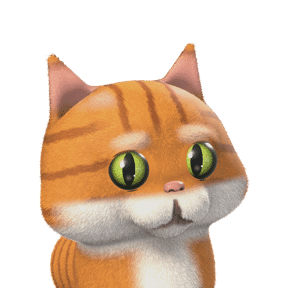
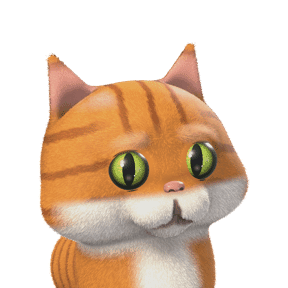
Tiere artgerechter, vier neue Hintergruende
- Brauen nur noch angedeutet (Farbe x0,4, Wulst x0,55), Lichtpunkte in den Augen x0,7
- Fuchs mit schwarzen Ohrspitzen, Hase mit hellem Augenring wie beim Wildkaninchen
- Lavendel, Wolken (hell), Sternschnuppe, Art deco (dunkel), Lucenta+, 8 Sprachen
pruef-alles 9/9.

diff --git a/src/styles/09-archetypen.css b/src/styles/09-archetypen.css
@@ -448,6 +448,72 @@
       linear-gradient(126deg, #FFD978 0%, #F7B548 55%, #EE9A3A 100%);
   }
 
+  .hg-lavendel{
+    --hg-ink:#2E2640; --hg-muted:#665C80;
+    background:
+      radial-gradient(3px 4px at 70% 58%, rgba(150,118,205,.85), transparent),
+      radial-gradient(3px 4px at 70% 65%, rgba(144,114,201,.85), transparent),
+      radial-gradient(3px 4px at 70% 72%, rgba(138,110,197,.85), transparent),
+      radial-gradient(3px 4px at 70% 79%, rgba(132,106,193,.85), transparent),
+      radial-gradient(3px 4px at 76% 48%, rgba(150,118,205,.85), transparent),
+      radial-gradient(3px 4px at 76% 55%, rgba(144,114,201,.85), transparent),
+      radial-gradient(3px 4px at 76% 62%, rgba(138,110,197,.85), transparent),
+      radial-gradient(3px 4px at 76% 69%, rgba(132,106,193,.85), transparent),
+      radial-gradient(3px 4px at 82% 62%, rgba(150,118,205,.85), transparent),
+      radial-gradient(3px 4px at 82% 69%, rgba(144,114,201,.85), transparent),
+      radial-gradient(3px 4px at 82% 76%, rgba(138,110,197,.85), transparent),
+      radial-gradient(3px 4px at 82% 83%, rgba(132,106,193,.85), transparent),
+      radial-gradient(3px 4px at 88% 50%, rgba(150,118,205,.85), transparent),
+      radial-gradient(3px 4px at 88% 57%, rgba(144,114,201,.85), transparent),
+      radial-gradient(3px 4px at 88% 64%, rgba(138,110,197,.85), transparent),
+      radial-gradient(3px 4px at 88% 71%, rgba(132,106,193,.85), transparent),
+      radial-gradient(3px 4px at 94% 60%, rgba(150,118,205,.85), transparent),
+      radial-gradient(3px 4px at 94% 67%, rgba(144,114,201,.85), transparent),
+      radial-gradient(3px 4px at 94% 74%, rgba(138,110,197,.85), transparent),
+      radial-gradient(3px 4px at 94% 81%, rgba(132,106,193,.85), transparent),
+      linear-gradient(90deg, transparent calc(70% - 0.5px), rgba(110,140,100,.45) calc(70% - 0.5px) calc(70% + 0.5px), transparent calc(70% + 0.5px)) 0 100% / 100% 22% no-repeat,
+      linear-gradient(90deg, transparent calc(76% - 0.5px), rgba(110,140,100,.45) calc(76% - 0.5px) calc(76% + 0.5px), transparent calc(76% + 0.5px)) 0 100% / 100% 32% no-repeat,
+      linear-gradient(90deg, transparent calc(82% - 0.5px), rgba(110,140,100,.45) calc(82% - 0.5px) calc(82% + 0.5px), transparent calc(82% + 0.5px)) 0 100% / 100% 18% no-repeat,
+      linear-gradient(90deg, transparent calc(88% - 0.5px), rgba(110,140,100,.45) calc(88% - 0.5px) calc(88% + 0.5px), transparent calc(88% + 0.5px)) 0 100% / 100% 30% no-repeat,
+      linear-gradient(90deg, transparent calc(94% - 0.5px), rgba(110,140,100,.45) calc(94% - 0.5px) calc(94% + 0.5px), transparent calc(94% + 0.5px)) 0 100% / 100% 20% no-repeat,
+      radial-gradient(80% 100% at 10% 0%, rgba(255,255,255,.6), transparent 60%),
+      linear-gradient(126deg, #F3EEF9 0%, #E6DCF3 55%, #DCD0EE 100%);
+  }
+  .hg-wolken{
+    --hg-ink:#1F3550; --hg-muted:#46607E;
+    background:
+      radial-gradient(circle at 66% 72%, #FFFFFF 0 15px, transparent 16px),
+      radial-gradient(circle at 74% 62%, #FFFFFF 0 20px, transparent 21px),
+      radial-gradient(circle at 83% 68%, #FFFFFF 0 17px, transparent 18px),
+      radial-gradient(circle at 91% 74%, #FFFFFF 0 12px, transparent 13px),
+      radial-gradient(60% 18% at 78% 82%, #FFFFFF 0 60%, transparent 62%),
+      radial-gradient(circle at 36% 22%, rgba(255,255,255,.9) 0 8px, transparent 9px),
+      radial-gradient(circle at 41% 17%, rgba(255,255,255,.9) 0 10px, transparent 11px),
+      radial-gradient(circle at 46% 22%, rgba(255,255,255,.9) 0 7px, transparent 8px),
+      linear-gradient(170deg, #9CCBEE 0%, #C3E0F6 60%, #E2F0FA 100%);
+  }
+  .hg-sternschnuppe{
+    --hg-ink:#EFF2FB; --hg-muted:#AFB9D6;
+    background:
+      radial-gradient(3px 3px at 69% 64%, #FFFFFF, transparent),
+      radial-gradient(14px 14px at 69% 64%, rgba(200,220,255,.4), transparent),
+      linear-gradient(152deg, transparent 0 66.6%, rgba(220,232,255,.0) 66.6%, rgba(220,232,255,.7) 69.6%, transparent 70% 100%) 100% 0 / 60% 70% no-repeat,
+      radial-gradient(1.2px 1.2px at 20% 30%, #FFFFFF, transparent),
+      radial-gradient(1px 1px at 44% 72%, #E6ECFF, transparent),
+      radial-gradient(1.2px 1.2px at 60% 56%, #FFFFFF, transparent),
+      radial-gradient(1px 1px at 12% 76%, #FFFFFF, transparent),
+      radial-gradient(1px 1px at 92% 82%, #E6ECFF, transparent),
+      linear-gradient(160deg, #151E3C 0%, #0C1228 70%, #080C1C 100%);
+  }
+  .hg-artdeco{
+    --hg-ink:#F6EFDD; --hg-muted:#C9B68A;
+    background:
+      radial-gradient(circle at 78% 120%, #D9B46A 0 22px, transparent 23px),
+      radial-gradient(circle at 78% 120%, transparent 0 30px, rgba(217,180,106,.8) 30px 31.5px, transparent 32px),
+      repeating-conic-gradient(from 270deg at 78% 120%, rgba(217,180,106,.38) 0deg 0.8deg, transparent 0.8deg 9deg),
+      linear-gradient(180deg, #1C1B19 0%, #121110 100%);
+  }
+
   /* Die kleinen Vorschauen in der Profilansicht: dieselben Klassen, nur klein. */
   .hg-raster{
     margin-top:14px; display:grid; gap:8px;

diff --git a/tools/figuren_rendern/Tiere.swift b/tools/figuren_rendern/Tiere.swift
@@ -290,6 +290,9 @@ func mitBrauen(_ k: Koerper, x: Float, y: Float, laenge: Float, dicke: Float, wi
         formen.append(Form(art: .ellipsoid(V(laenge, dicke, dicke * 1.3)), mitte: V(x * s, y, zf - dicke * (1.1 - 0.5 * wulst)),
                            drehung: dreh, weich: 0.10))
     }
+    // Realistischer (Entscheidung des Inhabers): aufgemalte Brauen gibt es bei keiner dieser Arten — Farbe und
+    // Wulst nur noch als Andeutung, damit der Ausdruck bleibt.
+    let staerke = staerke * 0.4, wulst = wulst * 0.55
     var w = k
     if wulst > 0 { w.formen += formen }
     let maske: (V) -> Float = { p in formen.map { glatt(0.07, -0.01, $0.abstand(p)) }.max() ?? 0 }
@@ -430,7 +433,7 @@ func fuchs() -> (SCNNode, Float, V) {
         let ohr = glatt(0.86, 1.00, p.y) * glatt(0.20, 0.34, abs(p.x))
         let innen = glatt(-0.1, 0.3, n.z) * glatt(1.42, 1.15, p.y)
         c = mische(c, mische(mische(c, dunkel, 0.65), creme, innen), ohr)
-        c = mische(c, dunkel, glatt(1.30, 1.44, p.y))
+        c = mische(c, dunkel, glatt(1.16, 1.32, p.y))
         c *= 1 - 0.25 * glatt(1.1, 1.6, p.z) * glatt(-0.30, -0.05, p.y)
         return c
     }, rauheit: 0.72, fell: 0.07)
@@ -636,6 +639,9 @@ func hase() -> (SCNNode, Float, V) {
         c = mische(c, hell, region(p, V(0, -0.080, 0.950), V(0.20, 0.12, 0.2), 0.4) * 0.7)
         let ohrInnen = glatt(0.65, 0.85, p.y) * glatt(0.0, 0.4, n.z)
         c = mische(c, rosa, ohrInnen * 0.8)
+        // Heller Augenring wie beim Wildkaninchen (statt eines Flecks darueber).
+        let dAuge = simd_length(simd_float2(abs(p.x) - 0.40, p.y - 0.14))
+        c = mische(c, hell, glatt(0.12, 0.15, dAuge) * glatt(0.25, 0.19, dAuge) * glatt(0.1, 0.5, n.z) * 0.75)
         return c
     }, rauheit: 0.80, fell: 0.07)
     // Hase: heller Saum ueber dem Auge (Wildkaninchen tragen einen hellen Augenring); sehr feines,

diff --git a/src/js/13-figuren.js b/src/js/13-figuren.js
@@ -75,11 +75,12 @@
   }
   var HINTERGRUENDE = ['sternenbild','nordlicht','daemmerung','tiefsee','wueste',
                        'wald','nebel','papier','welle','kohle','galaxie','glut','lagune','morgentau',
-                       'kirschbluete','gletscher','mondnacht','neon','prisma','sonnenstrahl'];
+                       'kirschbluete','gletscher','mondnacht','neon','prisma','sonnenstrahl',
+                       'lavendel','wolken','sternschnuppe','artdeco'];
   // Angezeigt in Gruppen; frei sind nur die schlichten Flaechen, der Rest ist Lucenta+ (Entscheidung des
   // Inhabers). Ein schon gewaehlter gesperrter Hintergrund bleibt.
-  var HG_GRUPPEN = [['hell', ['papier','nebel','wueste','morgentau','kirschbluete','gletscher']],
-                    ['dunkel', ['kohle','sternenbild','tiefsee','galaxie','mondnacht','neon']],
+  var HG_GRUPPEN = [['hell', ['papier','nebel','wueste','morgentau','kirschbluete','gletscher','lavendel','wolken']],
+                    ['dunkel', ['kohle','sternenbild','tiefsee','galaxie','mondnacht','neon','sternschnuppe','artdeco']],
                     ['farbe', ['nordlicht','daemmerung','welle','wald','glut','lagune','prisma','sonnenstrahl']]];
   var HG_FREI = ['papier','kohle'];
   function hgFrei(id){ return !id || HG_FREI.indexOf(id) >= 0 || istPlus(); }

diff --git a/tools/figuren_rendern/Szene.swift b/tools/figuren_rendern/Szene.swift
@@ -257,8 +257,10 @@ func augapfel(_ r: CGFloat, _ bild: NSImage) -> SCNGeometry {
 }
 
 func auge(radius r: CGFloat, iris: NSColor, pupille: CGFloat = 0.42, schlitz: Bool = false, quer: Bool = false,
-          schlitzBreite: CGFloat = 0.32, irisAnteil: CGFloat = 0.86, funke f: CGFloat = 1) -> SCNNode {
+          schlitzBreite: CGFloat = 0.32, irisAnteil: CGFloat = 0.86, funke f0: CGFloat = 1) -> SCNNode {
     let knoten = SCNNode()
+    // Realistischer (Entscheidung des Inhabers): kleinere Lichtpunkte; die Spiegelung der Hornhaut traegt den Rest.
+    let f = f0 * 0.7
     // Das Bild traegt aussen die dunkle Randfarbe, innen die Iris (Anteil irisAnteil).
     let g: CGFloat = 1024
     let voll = NSImage(size: NSSize(width: g, height: g))

diff --git a/src/i18n/ja.js b/src/i18n/ja.js
@@ -1086,6 +1086,10 @@
       'hg_neon': 'ネオン',
       'hg_prisma': 'プリズム',
       'hg_sonnenstrahl': '日差し',
+      'hg_lavendel': 'ラベンダー',
+      'hg_wolken': '雲',
+      'hg_sternschnuppe': '流れ星',
+      'hg_artdeco': 'アールデコ',
       'hg_gruppe_hell': '明るい',
       'hg_gruppe_dunkel': '暗い',
       'hg_gruppe_farbe': '色と光',

diff --git a/src/i18n/fr.js b/src/i18n/fr.js
@@ -1082,6 +1082,10 @@
       'hg_neon': 'Néon',
       'hg_prisma': 'Prisme',
       'hg_sonnenstrahl': 'Rayon de soleil',
+      'hg_lavendel': 'Lavande',
+      'hg_wolken': 'Nuages',
+      'hg_sternschnuppe': 'Étoile filante',
+      'hg_artdeco': 'Art déco',
       'hg_gruppe_hell': 'Clairs',
       'hg_gruppe_dunkel': 'Sombres',
       'hg_gruppe_farbe': 'Couleur et lumière',

diff --git a/src/i18n/de.js b/src/i18n/de.js
@@ -783,6 +783,10 @@ CONTENT.de = {
       'hg_neon': 'Neon',
       'hg_prisma': 'Prisma',
       'hg_sonnenstrahl': 'Sonnenstrahl',
+      'hg_lavendel': 'Lavendel',
+      'hg_wolken': 'Wolken',
+      'hg_sternschnuppe': 'Sternschnuppe',
+      'hg_artdeco': 'Art déco',
       'hg_gruppe_hell': 'Hell',
       'hg_gruppe_dunkel': 'Dunkel',
       'hg_gruppe_farbe': 'Farbe & Licht',

diff --git a/src/i18n/tr.js b/src/i18n/tr.js
@@ -1086,6 +1086,10 @@
       'hg_neon': 'Neon',
       'hg_prisma': 'Prizma',
       'hg_sonnenstrahl': 'Güneş ışını',
+      'hg_lavendel': 'Lavanta',
+      'hg_wolken': 'Bulutlar',
+      'hg_sternschnuppe': 'Kayan yıldız',
+      'hg_artdeco': 'Art déco',
       'hg_gruppe_hell': 'Açık',
       'hg_gruppe_dunkel': 'Koyu',
       'hg_gruppe_farbe': 'Renk ve ışık',

diff --git a/src/i18n/it.js b/src/i18n/it.js
@@ -1082,6 +1082,10 @@
       'hg_neon': 'Neon',
       'hg_prisma': 'Prisma',
       'hg_sonnenstrahl': 'Raggio di sole',
+      'hg_lavendel': 'Lavanda',
+      'hg_wolken': 'Nuvole',
+      'hg_sternschnuppe': 'Stella cadente',
+      'hg_artdeco': 'Art déco',
       'hg_gruppe_hell': 'Chiari',
       'hg_gruppe_dunkel': 'Scuri',
       'hg_gruppe_farbe': 'Colore e luce',

diff --git a/src/i18n/es.js b/src/i18n/es.js
@@ -1082,6 +1082,10 @@
       'hg_neon': 'Neón',
       'hg_prisma': 'Prisma',
       'hg_sonnenstrahl': 'Rayo de sol',
+      'hg_lavendel': 'Lavanda',
+      'hg_wolken': 'Nubes',
+      'hg_sternschnuppe': 'Estrella fugaz',
+      'hg_artdeco': 'Art déco',
       'hg_gruppe_hell': 'Claros',
       'hg_gruppe_dunkel': 'Oscuros',
       'hg_gruppe_farbe': 'Color y luz',

diff --git a/src/i18n/pt.js b/src/i18n/pt.js
@@ -1082,6 +1082,10 @@
       'hg_neon': 'Néon',
       'hg_prisma': 'Prisma',
       'hg_sonnenstrahl': 'Raio de sol',
+      'hg_lavendel': 'Lavanda',
+      'hg_wolken': 'Nuvens',
+      'hg_sternschnuppe': 'Estrela cadente',
+      'hg_artdeco': 'Art déco',
       'hg_gruppe_hell': 'Claros',
       'hg_gruppe_dunkel': 'Escuros',
       'hg_gruppe_farbe': 'Cor e luz',

diff --git a/src/i18n/en.js b/src/i18n/en.js
@@ -1083,6 +1083,10 @@
       'hg_neon': 'Neon',
       'hg_prisma': 'Prism',
       'hg_sonnenstrahl': 'Sunbeam',
+      'hg_lavendel': 'Lavender',
+      'hg_wolken': 'Clouds',
+      'hg_sternschnuppe': 'Shooting star',
+      'hg_artdeco': 'Art déco',
       'hg_gruppe_hell': 'Light',
       'hg_gruppe_dunkel': 'Dark',
       'hg_gruppe_farbe': 'Colour & light',
